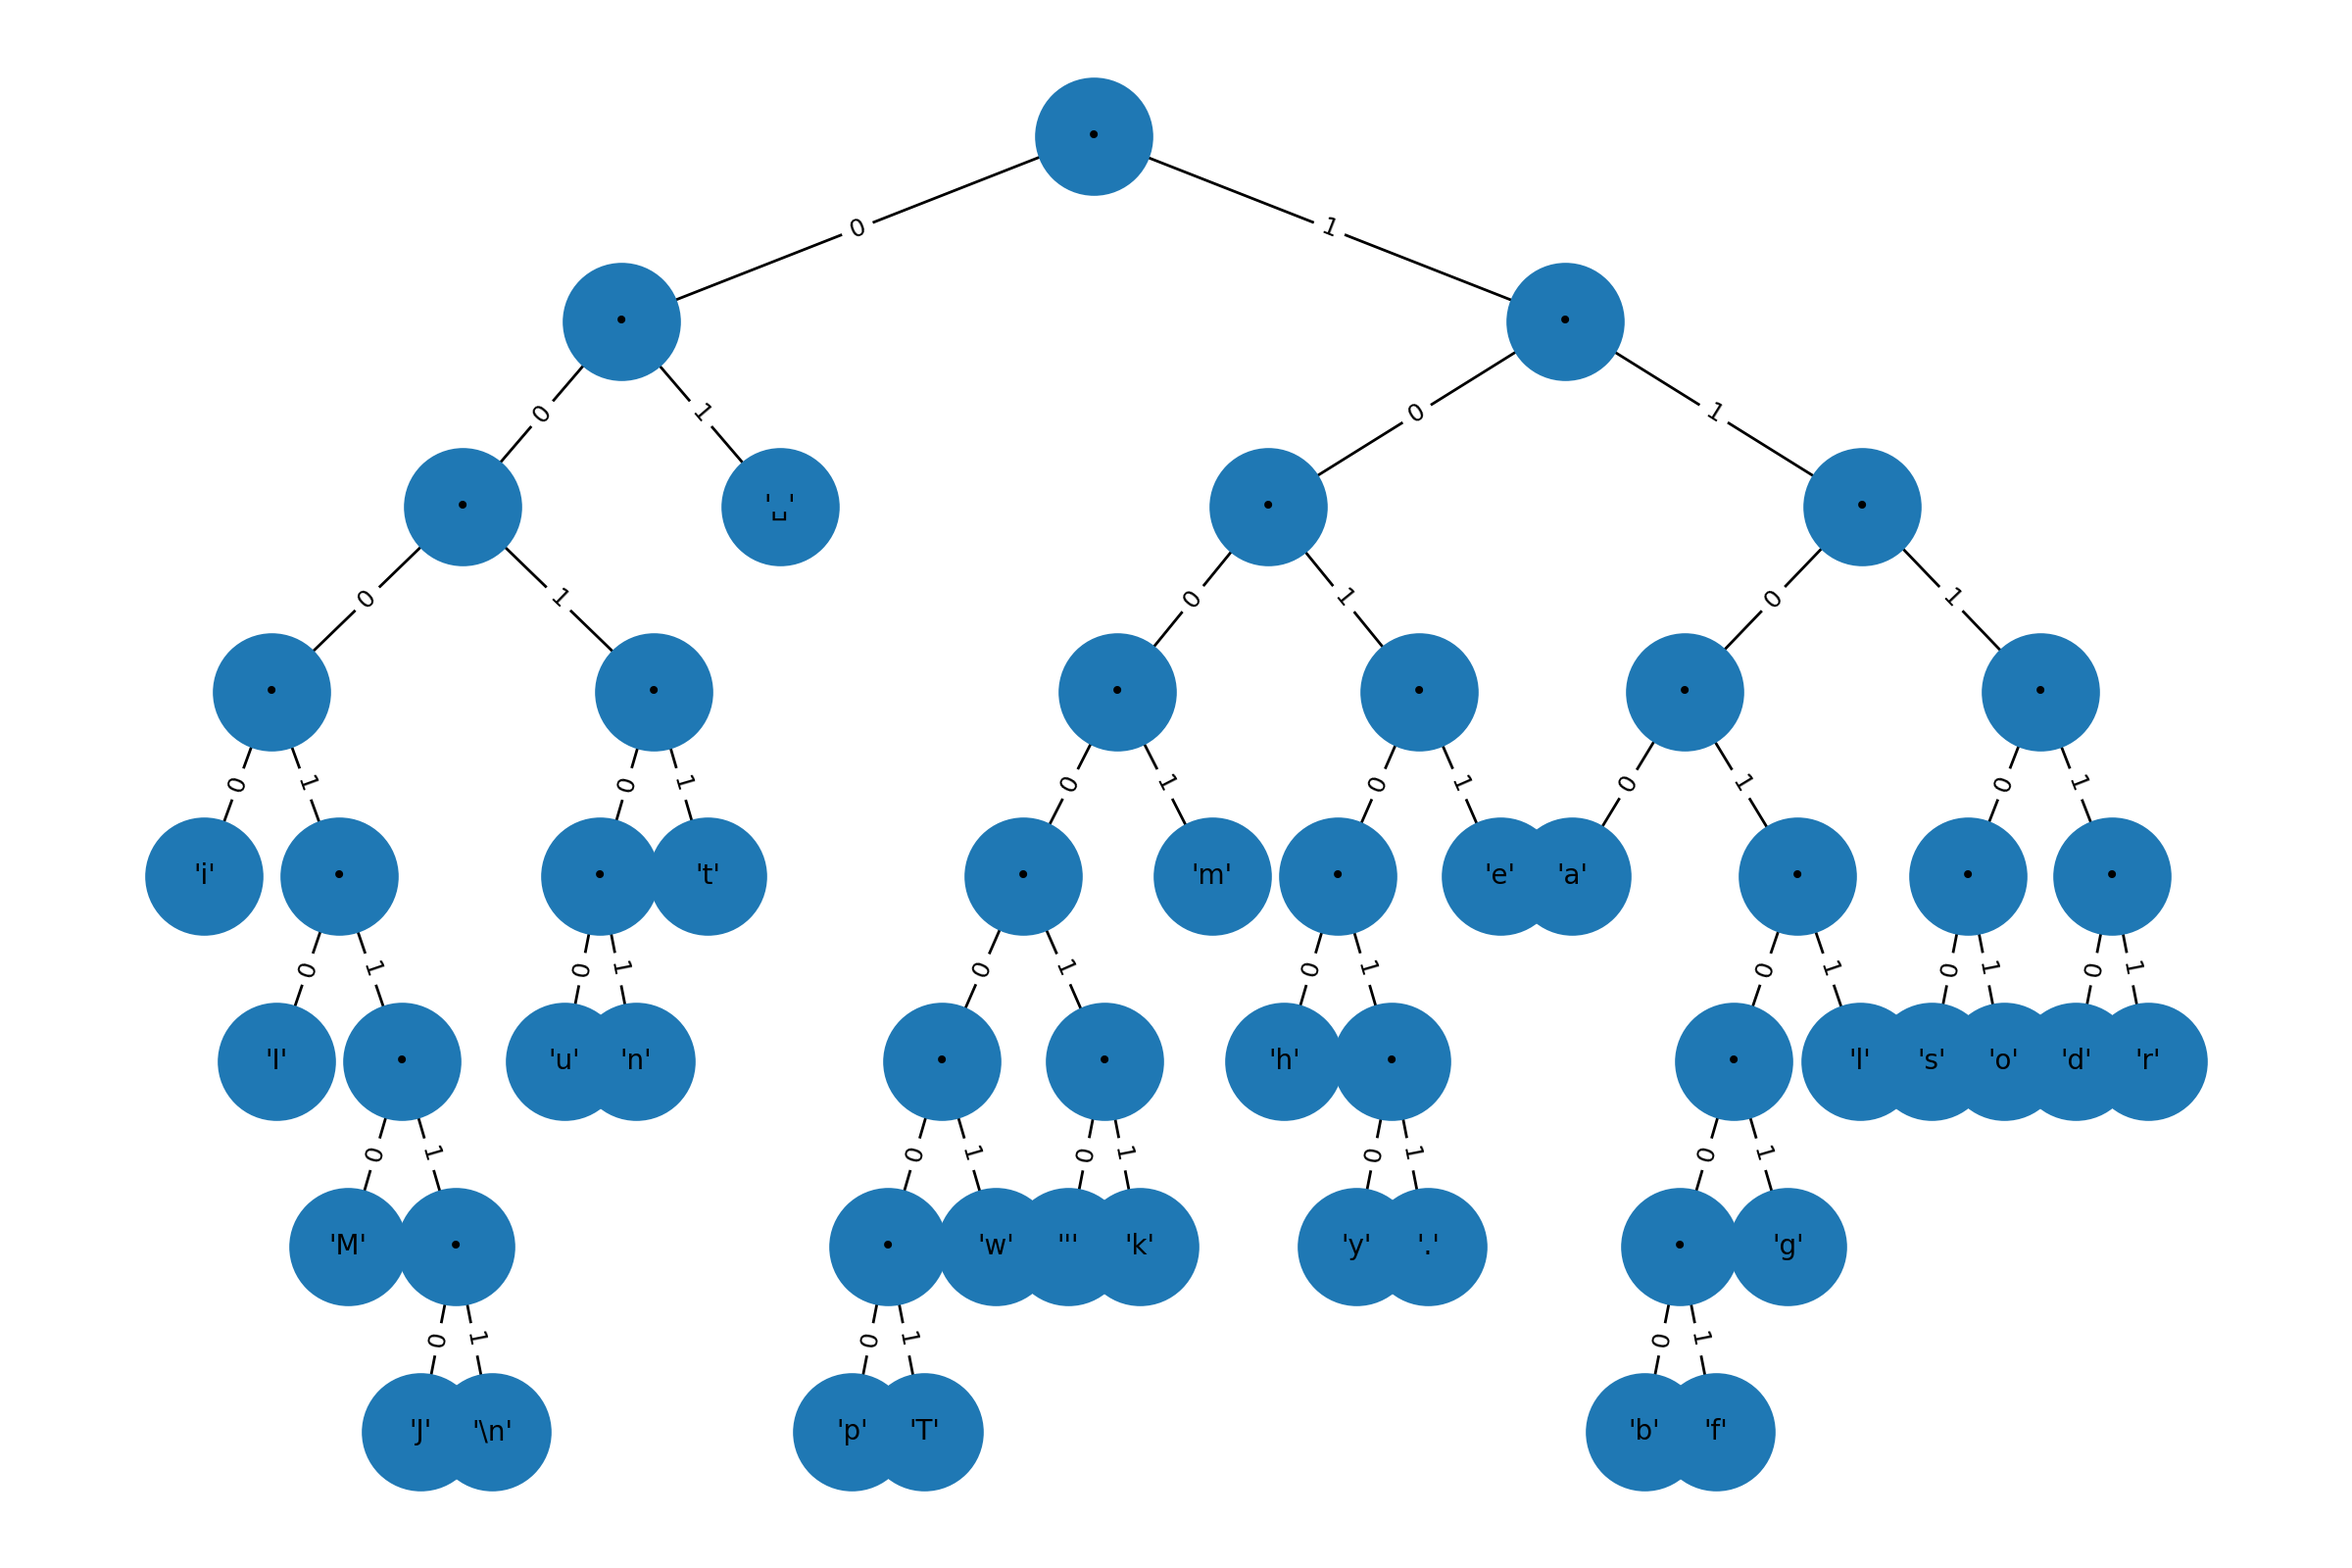
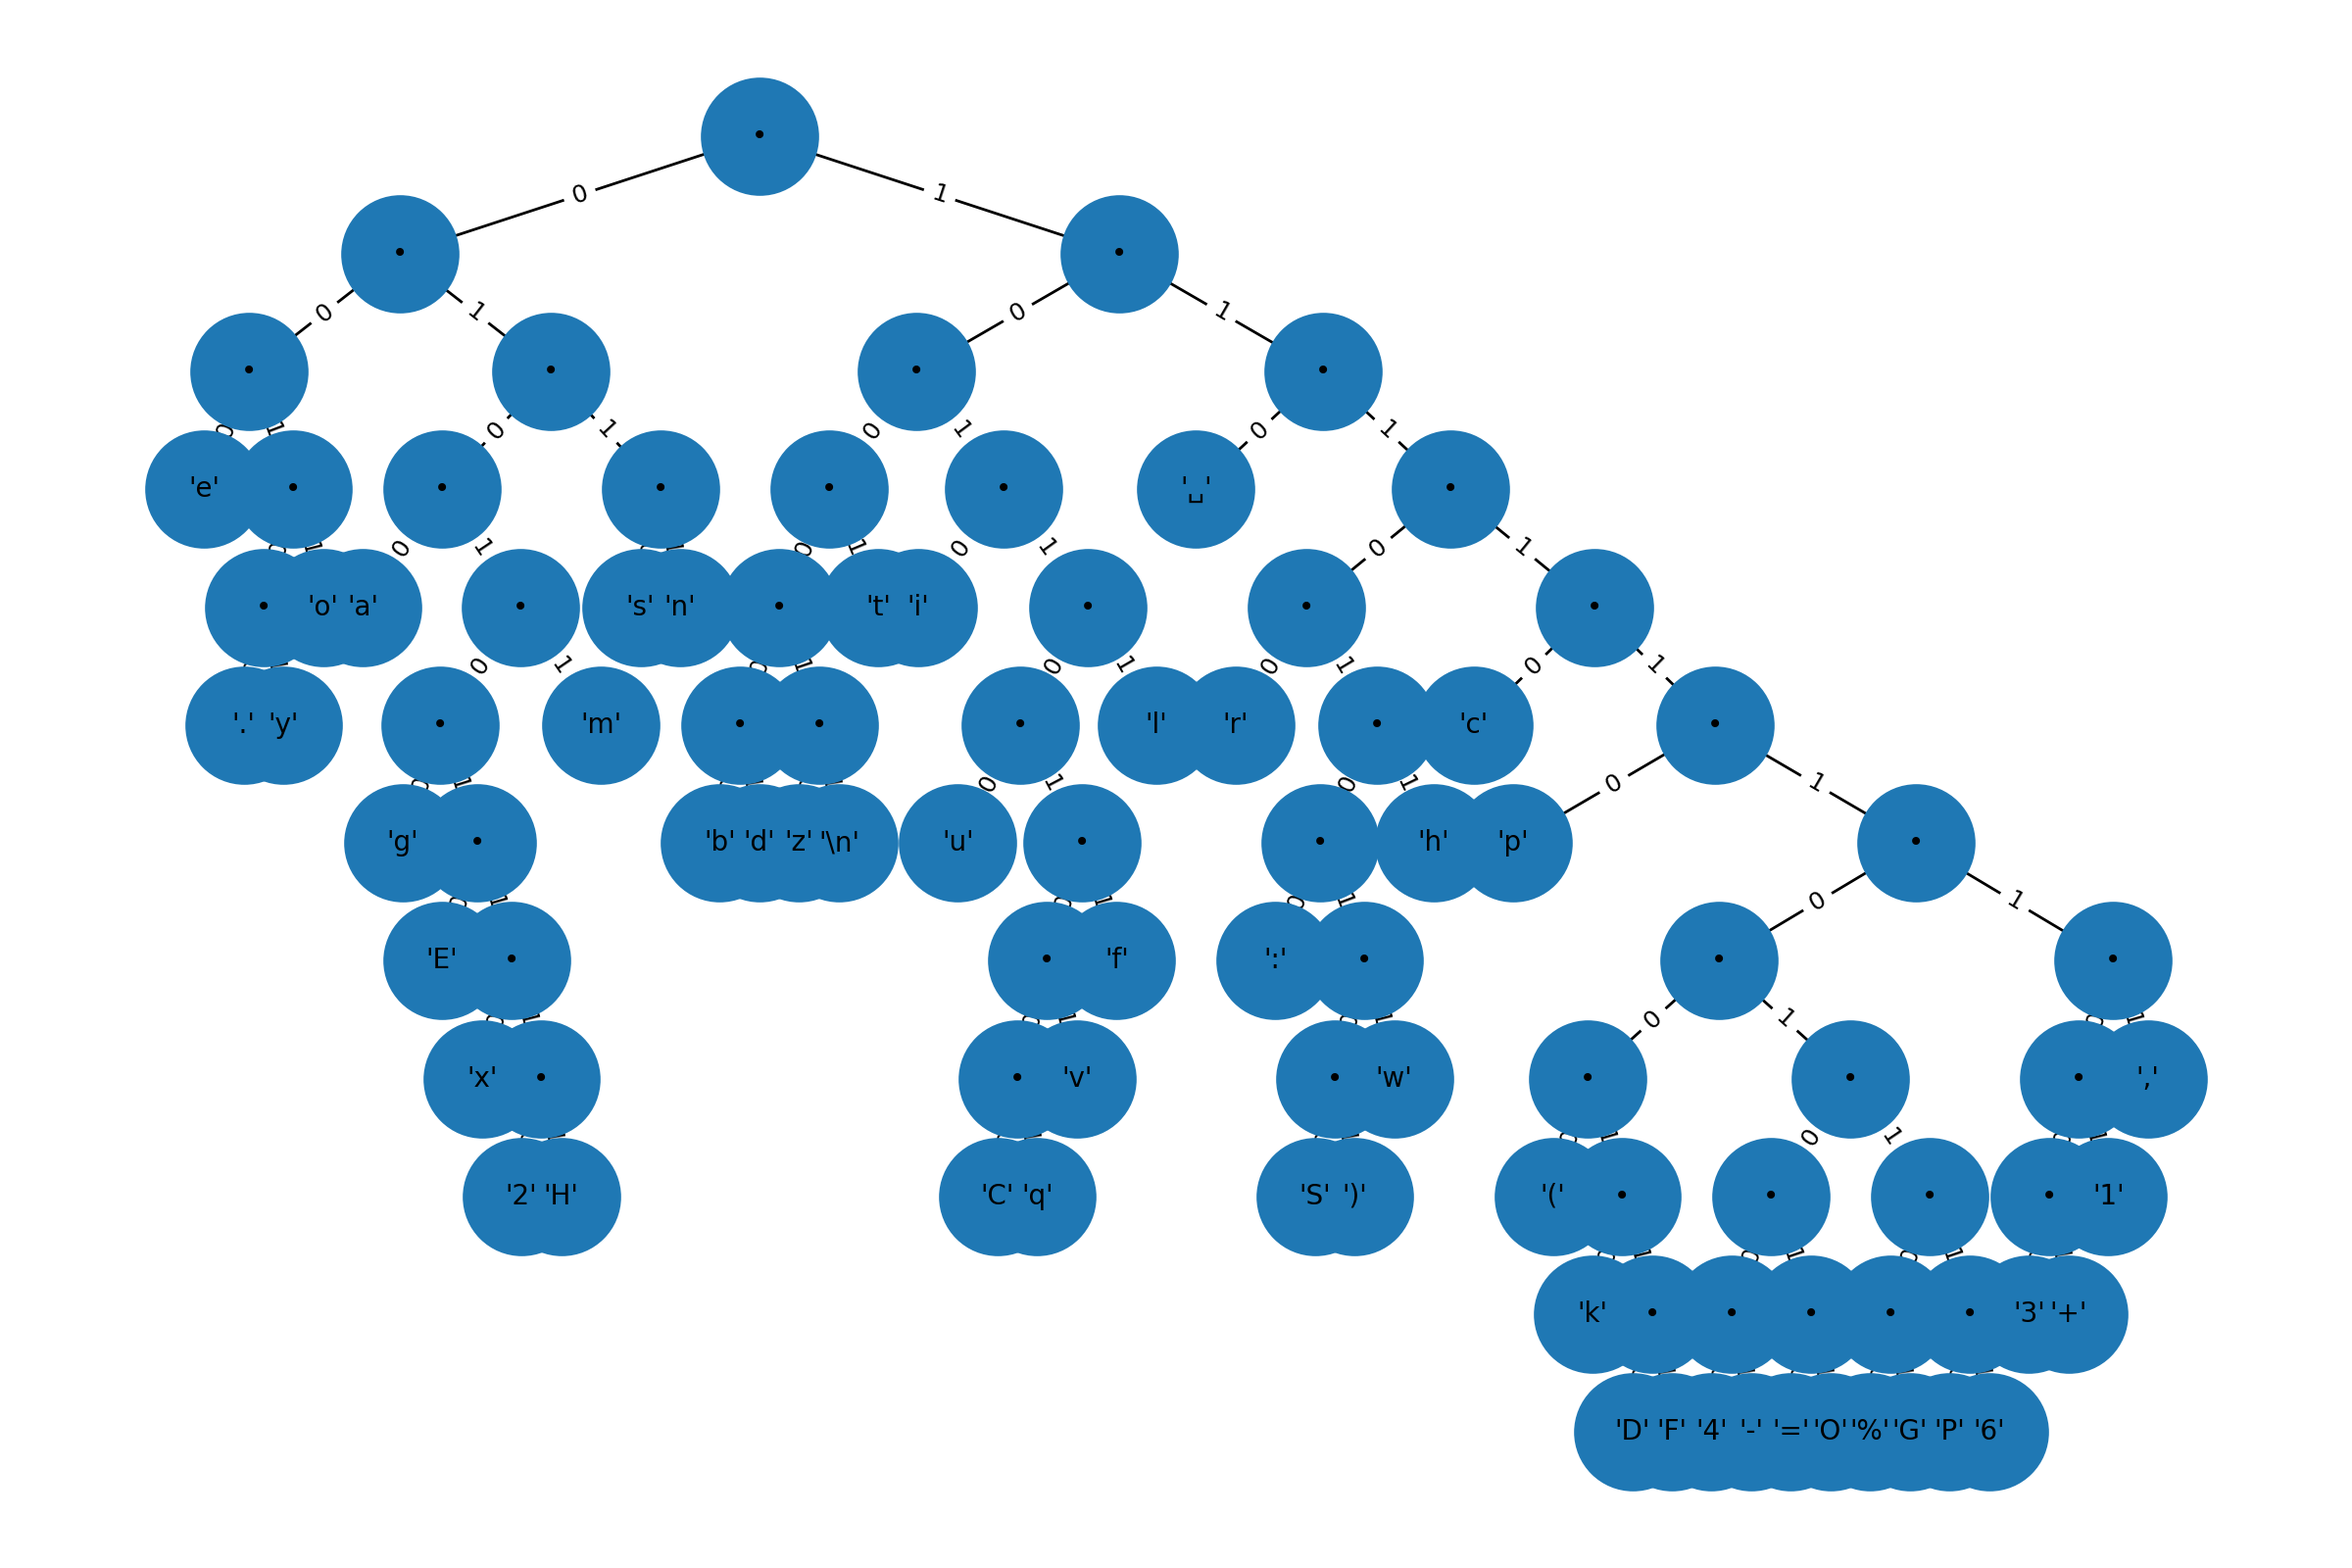
Improved compression - using canonical huffman

diff --git a/src/compression/huffman_encoder.py b/src/compression/huffman_encoder.py
@@ -1,35 +1,76 @@
 import os
 from .huffman_tree import build_frequency_table, build_huffman_tree, generate_codes
 from .bitstream import BitStreamWriter
-from ..utils.tree_serializer import serialize_tree
+
+
+def get_code_lengths(code_map):
+    """Return {char: length_of_code} dictionary."""
+    return {ch: len(code) for ch, code in code_map.items()}
+
+
+def canonical_from_lengths(length_map):
+    """
+    Build canonical Huffman codes from {char: length}.
+    Returns {char: canonical_code_as_string}.
+    """
+    # Sort by (length, lexicographically)
+    symbols = sorted(length_map.items(), key=lambda x: (x[1], x[0]))
+
+    canonical_codes = {}
+    current_code = 0
+    current_len = symbols[0][1]
+
+    for ch, length in symbols:
+        if length > current_len:
+            # Shift left when code length increases
+            current_code <<= (length - current_len)
+            current_len = length
+
+        canonical_codes[ch] = format(current_code, f'0{length}b')
+        current_code += 1
+
+    return canonical_codes
 
 
 def compress_file(input_path, output_path):
+    """Canonical Huffman compression."""
+
+    # Read text
     with open(input_path, "r", encoding="utf-8") as f:
         text = f.read()
 
+    # Build tree + normal Huffman codes
     freq = build_frequency_table(text)
     root = build_huffman_tree(freq)
-    codes = generate_codes(root)
+    raw_codes = generate_codes(root)
 
-    # Write compressed bits
+    # Convert to canonical version
+    length_map = get_code_lengths(raw_codes)
+    canonical_codes = canonical_from_lengths(length_map)
+
+    # Write compressed bitstream
     writer = BitStreamWriter()
     for ch in text:
-        writer.write_bits(codes[ch])
+        writer.write_bits(canonical_codes[ch])
 
-    compressed_bits = writer.to_bytes()
+    bitstream_bytes = writer.to_bytes()
 
-    # Serialize tree
-    tree_bytes = serialize_tree(root)
-    tree_size = len(tree_bytes)
-
+    # ---- WRITE HEADER ----
     with open(output_path, "wb") as f:
-        f.write(tree_size.to_bytes(4, "big"))
-        f.write(tree_bytes)
-        f.write(compressed_bits)
+        # Number of symbols (1 byte)
+        f.write(bytes([len(length_map)]))
 
-    return {
+        # Write (char, length) pairs
+        for ch, length in length_map.items():
+            f.write(bytes([ord(ch), length]))
+
+        # Write compressed data
+        f.write(bitstream_bytes)
+
+    stats = {
         "original_size": os.path.getsize(input_path),
         "compressed_size": os.path.getsize(output_path),
         "compression_ratio": round(os.path.getsize(input_path) / os.path.getsize(output_path), 3)
-    }, root
+    }
+
+    return stats, root  # keep root for visualization

diff --git a/src/compression/huffman_decoder.py b/src/compression/huffman_decoder.py
@@ -1,28 +1,60 @@
-from ..utils.tree_serializer import deserialize_tree
 from .bitstream import BitStreamReader
 
 
+def build_canonical_decoder(length_map):
+    """
+    Build canonical decoder tree from {char: length}.
+    Returns dictionary: {bitstring: char}
+    """
+    # Sort by length, then alphabetically
+    symbols = sorted(length_map.items(), key=lambda x: (x[1], x[0]))
+
+    decoder = {}
+    current_code = 0
+    current_len = symbols[0][1]
+
+    for ch, length in symbols:
+        if length > current_len:
+            current_code <<= (length - current_len)
+            current_len = length
+
+        bitstring = format(current_code, f'0{length}b')
+        decoder[bitstring] = ch
+
+        current_code += 1
+
+    return decoder
+
+
 def decompress_file(input_path, output_path):
+    """Canonical Huffman decoder."""
+
     with open(input_path, "rb") as f:
-        tree_size = int.from_bytes(f.read(4), "big")
-        tree_data = f.read(tree_size)
+        N = f.read(1)[0]  # number of symbols
+
+        length_map = {}
+        for _ in range(N):
+            ch = chr(f.read(1)[0])
+            length = f.read(1)[0]
+            length_map[ch] = length
+
         bitstream = f.read()
 
-    root = deserialize_tree(tree_data)
-
+    decoder_map = build_canonical_decoder(length_map)
     reader = BitStreamReader(bitstream)
     bits = reader.read_bits()
 
-    node = root
-    result = []
+    # STREAM DECODING (bit-by-bit)
+    decoded = []
+    buffer = ""
 
     for b in bits:
-        node = node.left if b == "0" else node.right
-        if node.char is not None:
-            result.append(node.char)
-            node = root
+        buffer += b
+        if buffer in decoder_map:
+            decoded.append(decoder_map[buffer])
+            buffer = ""
 
     with open(output_path, "w", encoding="utf-8") as f:
-        f.write("".join(result))
+        f.write("".join(decoded))
 
     return True
